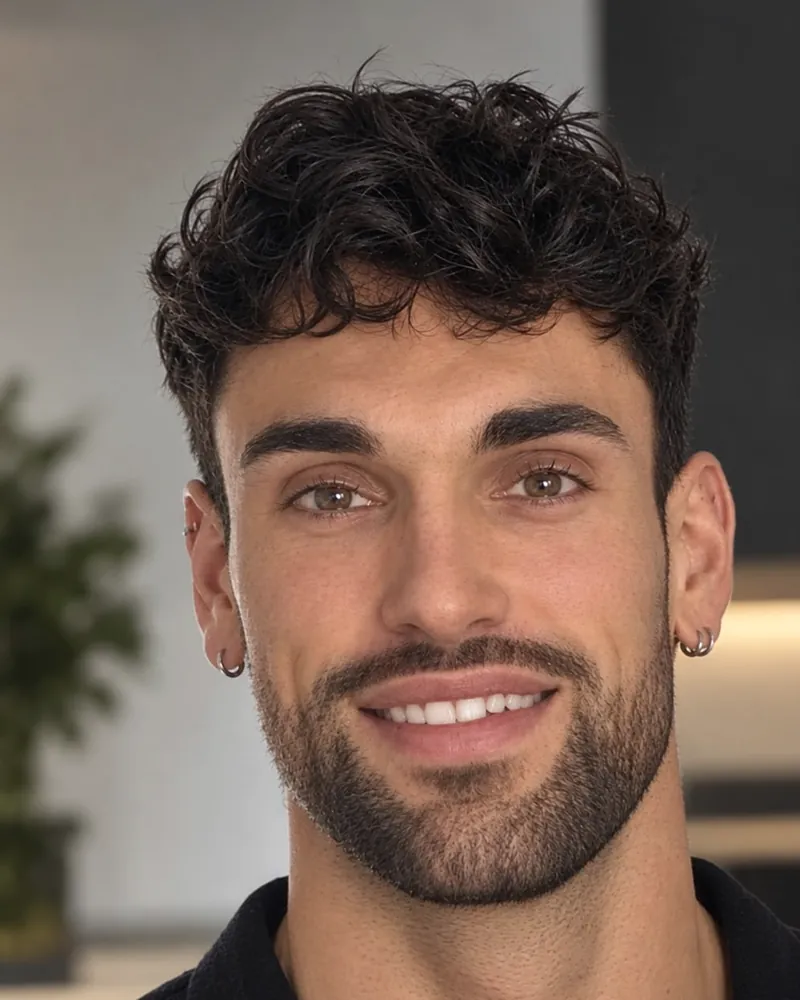
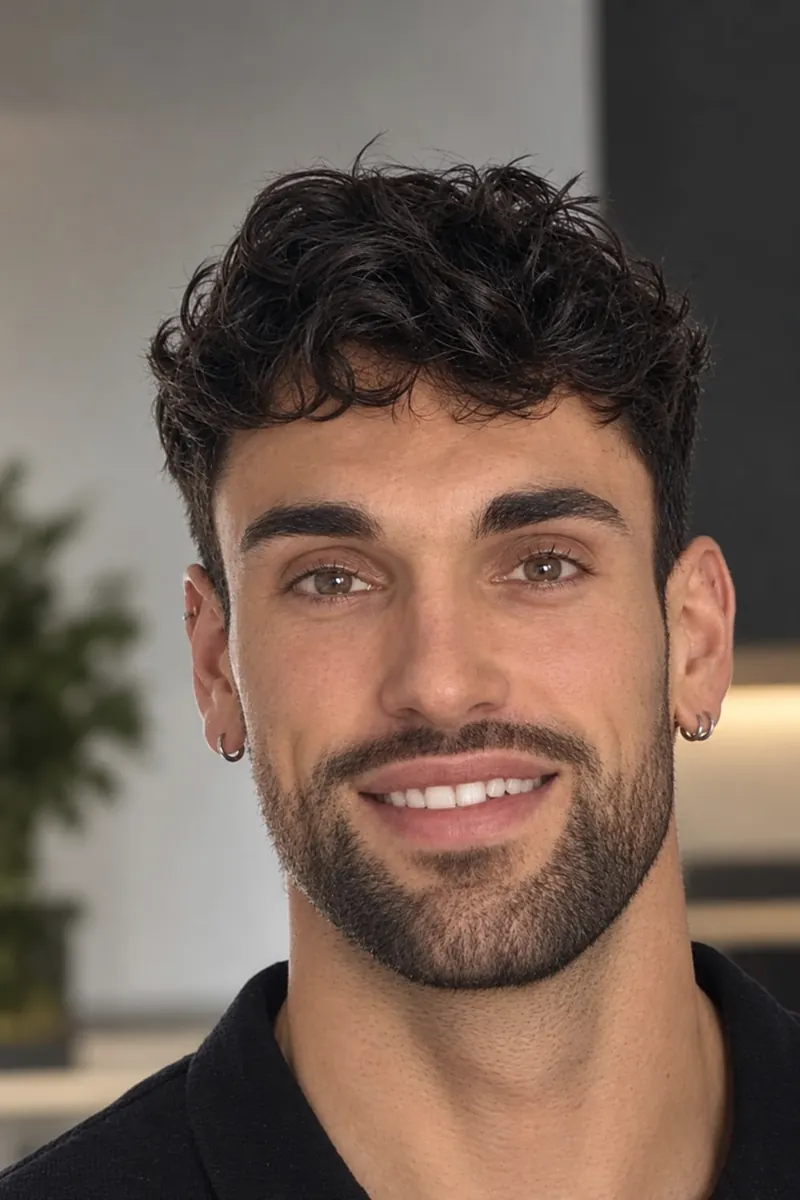
Photos coachs : cadre portrait 2:3 (la regle etait annulee par deux accolades orphelines), recadrage avec air et epaules

diff --git a/qui-sommes-nous.html b/qui-sommes-nous.html
@@ -29,7 +29,7 @@
   ]
 }
 </script>
-<link rel="stylesheet" href="assets/site.css?v=2709l">
+<link rel="stylesheet" href="assets/site.css?v=2709n">
 </head>
 <body>
 
@@ -94,7 +94,7 @@
 
         <!-- COACH 1 -->
         <article class="coach reveal">
-          <div class="ph photo"><span class="fr tl"></span><span class="fr tr"></span><span class="scanline"></span><span class="ghost">D</span><span class="tagph">Photo à venir</span><img src="assets/coach-damien.webp" alt="Damien, coach Elysium" width="800" height="1000" loading="lazy" decoding="async"></div>
+          <div class="ph photo"><span class="fr tl"></span><span class="fr tr"></span><span class="scanline"></span><span class="ghost">D</span><span class="tagph">Photo à venir</span><img src="assets/coach-damien.webp" alt="Damien, coach Elysium" width="800" height="1200" loading="lazy" decoding="async"></div>
           <div class="body">
             <span class="role">Coach nutrition</span>
             <h3>Damien</h3>
@@ -107,7 +107,7 @@
 
         <!-- COACH 2 -->
         <article class="coach reveal d1">
-          <div class="ph photo"><span class="fr tl"></span><span class="fr tr"></span><span class="scanline"></span><span class="ghost">Y</span><span class="tagph">Photo à venir</span><img src="assets/coach-yoann.webp" alt="Yoann, coach Elysium" width="800" height="1000" loading="lazy" decoding="async"></div>
+          <div class="ph photo"><span class="fr tl"></span><span class="fr tr"></span><span class="scanline"></span><span class="ghost">Y</span><span class="tagph">Photo à venir</span><img src="assets/coach-yoann.webp" alt="Yoann, coach Elysium" width="800" height="1200" loading="lazy" decoding="async"></div>
           <div class="body">
             <span class="role">Coach nutrition</span>
             <h3>Yoann</h3>
@@ -166,6 +166,6 @@
   <div class="foot-legal">© 2026 SAS Elysium · Nutrition &amp; Performance · Protocole v.2026</div>
 </footer>
 
-<script src="assets/site.js?v=2709l"></script>
+<script src="assets/site.js?v=2709n"></script>
 </body>
 </html>

diff --git a/espace.html b/espace.html
@@ -12,7 +12,7 @@
 <link rel="icon" type="image/png" sizes="48x48" href="assets/favicon-48.png?v=creme">
 <link rel="icon" type="image/png" sizes="32x32" href="assets/favicon-32.png?v=creme">
 <link rel="apple-touch-icon" href="assets/apple-touch-icon.png?v=creme">
-<link rel="stylesheet" href="assets/site.css?v=2709l">
+<link rel="stylesheet" href="assets/site.css?v=2709n">
 <style>
   /* ===== Espace membre v2, tableau de bord « télémétrie » (styles propres à la page) ===== */
   .dash-grid .wide{grid-column:1/-1}
@@ -319,7 +319,7 @@
      restent en maquette. Un bandeau qui ment sur l'état réel finit par tromper tout le monde. -->
 <div class="demo-banner" id="demobanner" style="display:none">⚠ Compte et questionnaire sont réels et sécurisés. En revanche, le paiement est simulé et le programme affiché est un exemple — le tien arrivera une fois ta programmation faite.</div>
 
-<script src="assets/site.js?v=2709l"></script>
+<script src="assets/site.js?v=2709n"></script>
 <script>
 /* Exemple de programme (en prod : chargé depuis l'API du membre une fois construit par le coach). Structure identique au moteur. */
 var PROG = {

diff --git a/resultats.html b/resultats.html
@@ -21,7 +21,7 @@
 <meta property="og:image" content="https://elysium-x57.pages.dev/assets/og-creme.jpg">
 <meta property="og:url" content="https://elysium-x57.pages.dev/resultats.html">
 <meta name="twitter:card" content="summary_large_image">
-<link rel="stylesheet" href="assets/site.css?v=2709l">
+<link rel="stylesheet" href="assets/site.css?v=2709n">
 <style>
   /* ===== Résultats / transformations, charte « instrument », version compacte ===== */
   .rstats{display:flex;flex-wrap:wrap;justify-content:center;gap:clamp(22px,4.5vw,60px);margin:0 auto 4px;padding:0 var(--edge)}
@@ -280,7 +280,7 @@
   <div class="foot-legal">© 2026 SAS Elysium · Nutrition &amp; Performance · Protocole v.2026</div>
 </footer>
 
-<script src="assets/site.js?v=2709l"></script>
+<script src="assets/site.js?v=2709n"></script>
 <script>
 /* Chaque photo (surtout celles avec le bouton lecture) mène au même Instagram que
    son lien « Voir la vidéo / Avant-après » : les gens cliquent au milieu de l'image. */

diff --git a/inscription.html b/inscription.html
@@ -22,7 +22,7 @@ if(!ELY_CHOIX) location.replace('formules.html#les-formules');
 <link rel="icon" type="image/png" sizes="48x48" href="assets/favicon-48.png?v=creme">
 <link rel="icon" type="image/png" sizes="32x32" href="assets/favicon-32.png?v=creme">
 <link rel="apple-touch-icon" href="assets/apple-touch-icon.png?v=creme">
-<link rel="stylesheet" href="assets/site.css?v=2709l">
+<link rel="stylesheet" href="assets/site.css?v=2709n">
 <style>
   /* champs identité (Dimitri 25/07) : lignes 2 colonnes + select/date raccord DA */
   .frow{display:flex;gap:12px;flex-wrap:wrap}
@@ -89,7 +89,7 @@ if(!ELY_CHOIX) location.replace('formules.html#les-formules');
   <div class="foot-legal">© 2026 SAS Elysium · Nutrition &amp; Performance · Protocole v.2026</div>
 </footer>
 
-<script src="assets/site.js?v=2709l"></script>
+<script src="assets/site.js?v=2709n"></script>
 <script src="assets/vendor/supabase.min.js"></script>
 <script src="assets/ely-auth.js"></script>
 <script>

diff --git a/choisir.html b/choisir.html
@@ -13,7 +13,7 @@
 <link rel="icon" type="image/png" sizes="48x48" href="assets/favicon-48.png?v=creme">
 <link rel="icon" type="image/png" sizes="32x32" href="assets/favicon-32.png?v=creme">
 <link rel="apple-touch-icon" href="assets/apple-touch-icon.png?v=creme">
-<link rel="stylesheet" href="assets/site.css?v=2709l">
+<link rel="stylesheet" href="assets/site.css?v=2709n">
 <style>
   /* ===== Choisir sa formule (post-inscription), étape de bienvenue avant paiement ===== */
   .chwrap{max-width:1000px;margin:0 auto;padding:120px var(--edge) 90px}
@@ -180,7 +180,7 @@
 
 <div class="demo-banner">⚠ Maquette, le paiement est simulé (Stripe arrivera en phase suivante). « Choisir » débloque ton espace pour visualiser la suite.</div>
 
-<script src="assets/site.js?v=2709l"></script>
+<script src="assets/site.js?v=2709n"></script>
 <script src="assets/vendor/supabase.min.js"></script>
 <script src="assets/ely-auth.js"></script>
 <script>

diff --git a/404.html b/404.html
@@ -13,7 +13,7 @@
 <link rel="icon" type="image/png" sizes="48x48" href="assets/favicon-48.png?v=creme">
 <link rel="icon" type="image/png" sizes="32x32" href="assets/favicon-32.png?v=creme">
 <link rel="apple-touch-icon" href="assets/apple-touch-icon.png?v=creme">
-<link rel="stylesheet" href="assets/site.css?v=2709l">
+<link rel="stylesheet" href="assets/site.css?v=2709n">
 <style>
   .e404{min-height:78vh;display:flex;flex-direction:column;align-items:center;justify-content:center;text-align:center;padding:60px var(--edge)}
   .e404 .code{font-family:var(--disp);font-weight:600;font-size:clamp(90px,20vw,220px);line-height:.9;color:var(--ice);letter-spacing:.02em}
@@ -59,6 +59,6 @@
   <div class="foot-legal">© 2026 SAS Elysium · Nutrition &amp; Performance · Protocole v.2026</div>
 </footer>
 
-<script src="assets/site.js?v=2709l"></script>
+<script src="assets/site.js?v=2709n"></script>
 </body>
 </html>

diff --git a/methode.html b/methode.html
@@ -20,7 +20,7 @@
 <meta property="og:image" content="https://elysium-x57.pages.dev/assets/og-creme.jpg">
 <meta property="og:url" content="https://elysium-x57.pages.dev/methode.html">
 <meta name="twitter:card" content="summary_large_image">
-<link rel="stylesheet" href="assets/site.css?v=2709l">
+<link rel="stylesheet" href="assets/site.css?v=2709n">
 <style>
   /* méthode : colonne de progression (spine) qui se remplit au scroll, cohérent avec le « process » (distinct des effets des autres pages) */
   .steps{position:relative}
@@ -183,7 +183,7 @@
   <div class="foot-legal">© 2026 SAS Elysium · Nutrition &amp; Performance · Protocole v.2026</div>
 </footer>
 
-<script src="assets/site.js?v=2709l"></script>
+<script src="assets/site.js?v=2709n"></script>
 <script>
 /* spine : le fill monte selon la progression du scroll dans les étapes, chaque nœud s'allume à son passage */
 (function(){

diff --git a/bienvenue.html b/bienvenue.html
@@ -13,7 +13,7 @@
 <link rel="icon" type="image/png" sizes="48x48" href="assets/favicon-48.png?v=creme">
 <link rel="icon" type="image/png" sizes="32x32" href="assets/favicon-32.png?v=creme">
 <link rel="apple-touch-icon" href="assets/apple-touch-icon.png?v=creme">
-<link rel="stylesheet" href="assets/site.css?v=2709l">
+<link rel="stylesheet" href="assets/site.css?v=2709n">
 <style>
   /* Page d'arrivée après le clic sur le lien de confirmation reçu par e-mail.
      Avant (relevé Dimitri 27/07), Supabase renvoyait sur la racine du site SANS
@@ -100,7 +100,7 @@
   <div class="foot-legal">© 2026 SAS Elysium · Nutrition &amp; Performance · Protocole v.2026</div>
 </footer>
 
-<script src="assets/site.js?v=2709l"></script>
+<script src="assets/site.js?v=2709n"></script>
 <script src="assets/vendor/supabase.min.js"></script>
 <script src="assets/ely-auth.js"></script>
 <script>

diff --git a/questionnaire.html b/questionnaire.html
@@ -13,7 +13,7 @@
 <link rel="icon" type="image/png" sizes="48x48" href="assets/favicon-48.png?v=creme">
 <link rel="icon" type="image/png" sizes="32x32" href="assets/favicon-32.png?v=creme">
 <link rel="apple-touch-icon" href="assets/apple-touch-icon.png?v=creme">
-<link rel="stylesheet" href="assets/site.css?v=2709l">
+<link rel="stylesheet" href="assets/site.css?v=2709n">
 <style>
   body{overflow-x:hidden}
   .qtop{position:fixed;top:0;left:0;right:0;z-index:55;display:flex;align-items:center;justify-content:space-between;gap:16px;padding:16px var(--edge);background:var(--voile)}
@@ -388,7 +388,7 @@
   <a class="btn" href="espace.html">Retour à mon espace</a>
 </div></div>
 
-<script src="assets/site.js?v=2709l"></script>
+<script src="assets/site.js?v=2709n"></script>
 <script src="assets/vendor/supabase.min.js"></script>
 <script src="assets/ely-auth.js"></script>
 <script>

diff --git a/assets/site.css b/assets/site.css
@@ -584,12 +584,10 @@ html.page-sort main{opacity:0!important;transform:translateY(-12px)!important;tr
 @media(prefers-reduced-motion:reduce){
   html.arrivee main,html.page-sort main{opacity:1!important;transform:none!important;transition:none!important}
 }
-}
-}
 
-/* photos des coachs (qui-sommes-nous) : même cadrage portrait 4:5 pour les deux. Le cadre
+/* photos des coachs (qui-sommes-nous) : même cadrage portrait 2:3 pour les deux (tête entière, air au-dessus, haut des épaules). Le cadre
    « Photo à venir » reste dans la page : retirer la classe `photo` et l'<img> pour y revenir. */
-.coach .ph.photo{aspect-ratio:4/5}
+.coach .ph.photo{aspect-ratio:2/3}
 .coach .ph.photo > span{display:none}
 .coach .ph.photo img{position:absolute;inset:0;width:100%;height:100%;object-fit:cover}
 .coach .ph.photo::after{display:none}

diff --git a/coach.html b/coach.html
@@ -12,7 +12,7 @@
 <link rel="stylesheet" href="assets/fonts.css">
 <link rel="icon" type="image/png" sizes="48x48" href="assets/favicon-48.png?v=creme">
 <link rel="icon" type="image/png" sizes="32x32" href="assets/favicon-32.png?v=creme">
-<link rel="stylesheet" href="assets/site.css?v=2709l">
+<link rel="stylesheet" href="assets/site.css?v=2709n">
 <style>
   /* ==========================================================================
      ESPACE COACHS — un COCKPIT : tout sous les yeux, aucune navigation.
@@ -289,7 +289,7 @@
 
 <div class="toast" id="toast"></div>
 
-<script src="assets/site.js?v=2709l"></script>
+<script src="assets/site.js?v=2709n"></script>
 <script src="assets/vendor/supabase.min.js"></script>
 <script src="assets/ely-auth.js"></script>
 <script>

diff --git a/contact.html b/contact.html
@@ -20,7 +20,7 @@
 <meta property="og:image" content="https://elysium-x57.pages.dev/assets/og-creme.jpg">
 <meta property="og:url" content="https://elysium-x57.pages.dev/contact.html">
 <meta name="twitter:card" content="summary_large_image">
-<link rel="stylesheet" href="assets/site.css?v=2709l">
+<link rel="stylesheet" href="assets/site.css?v=2709n">
 </head>
 <body>
 
@@ -129,7 +129,7 @@
   <div class="foot-legal">© 2026 SAS Elysium · Nutrition &amp; Performance · Protocole v.2026</div>
 </footer>
 
-<script src="assets/site.js?v=2709l"></script>
+<script src="assets/site.js?v=2709n"></script>
 <script>
 /* Contact via Web3Forms : envoi AJAX (JSON) + accusé de réception inline. Host-agnostique. */
 (function(){
